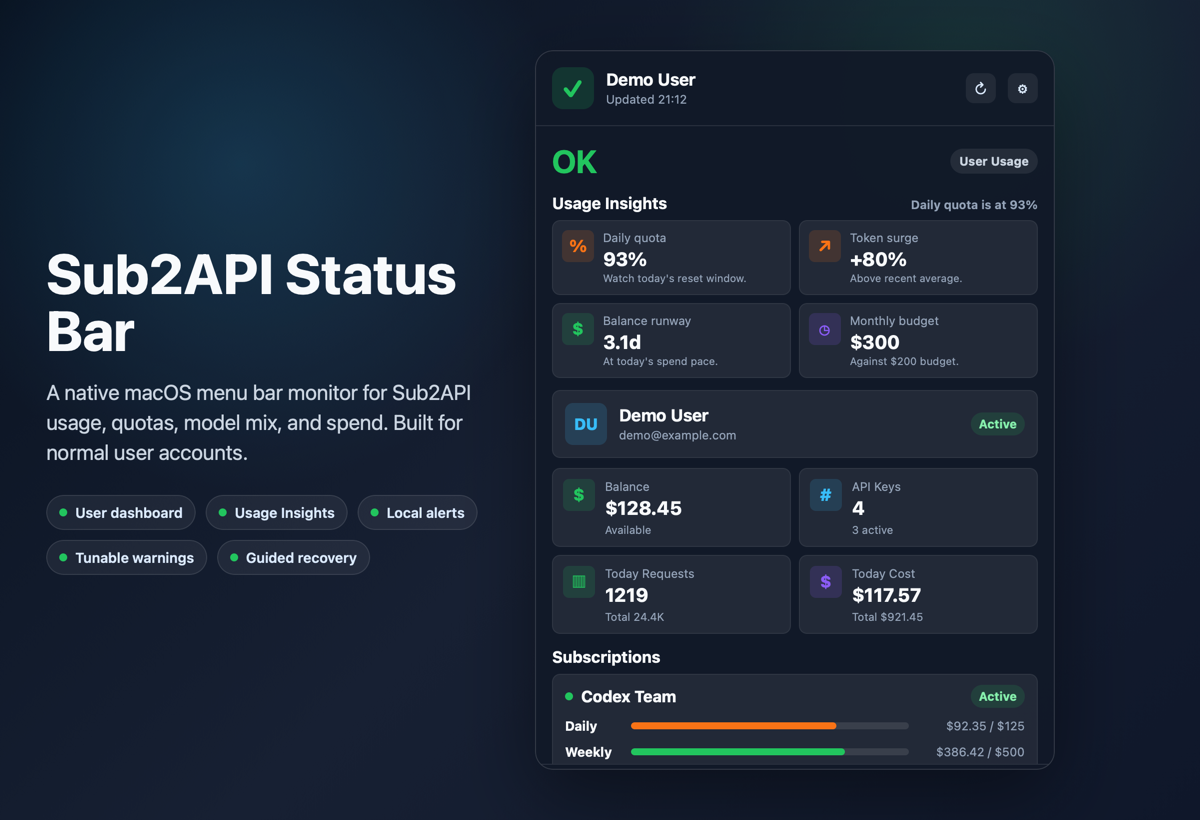
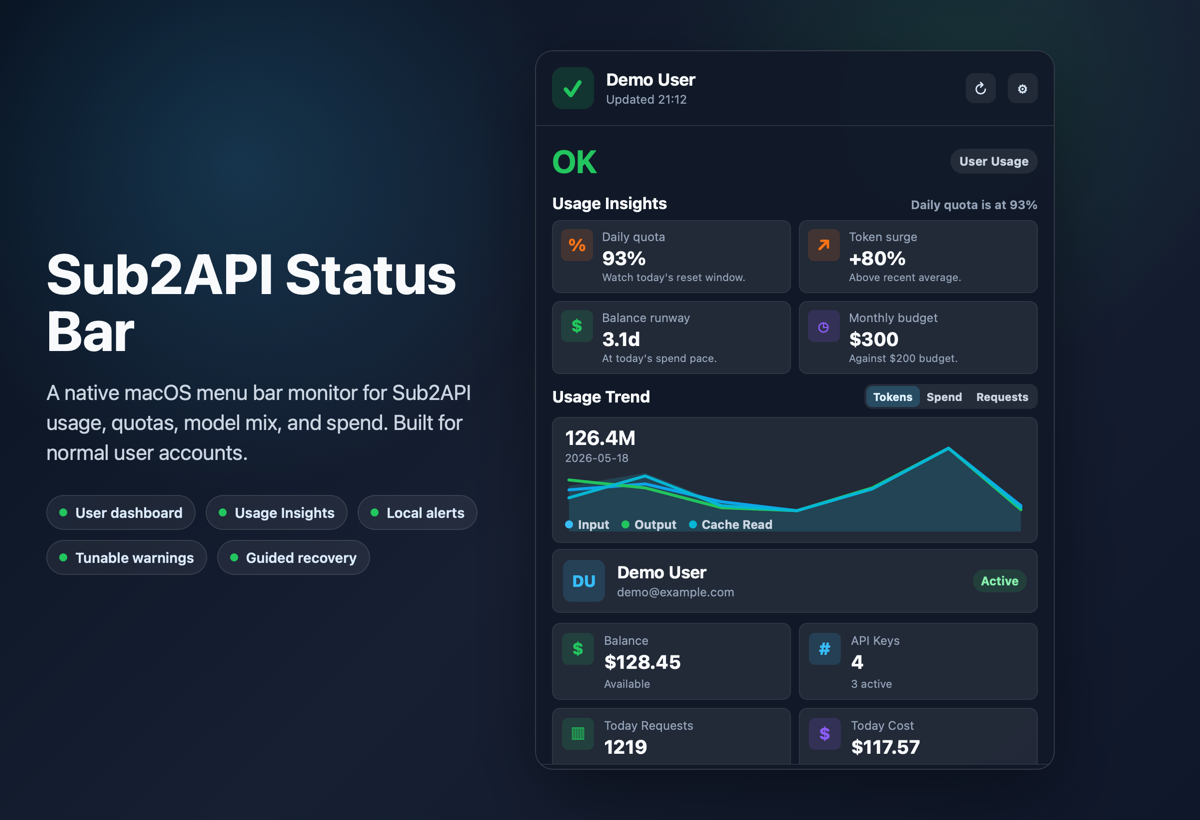
Frontload usage trend surface

Changed region(s): [[0.4625, 0.2744, 0.8633, 0.9451], [0.6783, 0.2744, 0.8633, 0.5183], [0.8017, 0.7012, 0.8633, 0.7317]]

diff --git a/docs/assets/product-preview.html b/docs/assets/product-preview.html
@@ -198,12 +198,12 @@
       display: flex;
       align-items: center;
       gap: 12px;
-      padding: 12px;
+      padding: 10px;
       margin-bottom: 10px;
     }
 
     .insights {
-      margin-bottom: 12px;
+      margin-bottom: 10px;
     }
 
     .insights-head {
@@ -231,10 +231,10 @@
     }
 
     .insight-card {
-      min-height: 72px;
+      min-height: 64px;
       display: flex;
       gap: 9px;
-      padding: 9px;
+      padding: 8px;
     }
 
     .insight-copy {
@@ -273,14 +273,14 @@
       display: grid;
       grid-template-columns: 1fr 1fr;
       gap: 8px;
-      margin-bottom: 14px;
+      margin-bottom: 10px;
     }
 
     .card {
       display: flex;
       gap: 10px;
-      padding: 10px;
-      min-height: 66px;
+      padding: 9px;
+      min-height: 58px;
     }
 
     .glyph {
@@ -346,8 +346,8 @@
     }
 
     .section {
-      padding: 10px 12px;
-      margin-bottom: 10px;
+      padding: 9px 12px;
+      margin-bottom: 8px;
     }
 
     .trend-head {
@@ -400,7 +400,7 @@
     }
 
     .quota-row {
-      margin-top: 10px;
+      margin-top: 8px;
     }
 
     .quota-row span:first-child {
@@ -465,7 +465,7 @@
     }
 
     .trend {
-      height: 138px;
+      height: 126px;
       position: relative;
       overflow: hidden;
       border-radius: 8px;
@@ -587,6 +587,27 @@
           </div>
         </div>
 
+        <div class="trend-head">
+          <h2 class="section-title">Usage Trend</h2>
+          <div class="segmented"><span class="active">Tokens</span><span>Spend</span><span>Requests</span></div>
+        </div>
+        <div class="trend">
+          <div class="trend-summary">
+            <div><strong>126.4M</strong><span>2026-05-18</span></div>
+          </div>
+          <svg viewBox="0 0 488 104" role="img" aria-label="Token trend preview">
+            <path d="M16 58 L93 45 L170 75 L246 83 L322 60 L399 18 L472 80 L472 104 L16 104 Z" fill="rgba(34, 211, 238, 0.16)"></path>
+            <path d="M16 62 L93 56 L170 74 L246 83 L322 61 L399 20 L472 78" fill="none" stroke="#0ea5e9" stroke-width="3" stroke-linecap="round" stroke-linejoin="round"></path>
+            <path d="M16 52 L93 60 L170 80 L246 83 L322 60 L399 20 L472 82" fill="none" stroke="#22c55e" stroke-width="3" stroke-linecap="round" stroke-linejoin="round"></path>
+            <path d="M16 70 L93 48 L170 78 L246 83 L322 61 L399 20 L472 80" fill="none" stroke="#06b6d4" stroke-width="3" stroke-linecap="round" stroke-linejoin="round"></path>
+          </svg>
+          <div class="trend-legend">
+            <span><i class="legend-dot"></i>Input</span>
+            <span><i class="legend-dot" style="background: var(--green)"></i>Output</span>
+            <span><i class="legend-dot" style="background: #06b6d4"></i>Cache Read</span>
+          </div>
+        </div>
+
         <div class="account">
           <div class="avatar">DU</div>
           <div>
@@ -628,26 +649,6 @@
           <div class="quota-row"><span>Monthly</span><div class="bar"><div class="fill" style="width:31%"></div></div><span class="amount">$612.34 / $2K</span></div>
         </div>
 
-        <div class="trend-head">
-          <h2 class="section-title">Usage Trend</h2>
-          <div class="segmented"><span class="active">Tokens</span><span>Spend</span><span>Requests</span></div>
-        </div>
-        <div class="trend">
-          <div class="trend-summary">
-            <div><strong>126.4M</strong><span>2026-05-18</span></div>
-          </div>
-          <svg viewBox="0 0 488 104" role="img" aria-label="Token trend preview">
-            <path d="M16 58 L93 45 L170 75 L246 83 L322 60 L399 18 L472 80 L472 104 L16 104 Z" fill="rgba(34, 211, 238, 0.16)"></path>
-            <path d="M16 62 L93 56 L170 74 L246 83 L322 61 L399 20 L472 78" fill="none" stroke="#0ea5e9" stroke-width="3" stroke-linecap="round" stroke-linejoin="round"></path>
-            <path d="M16 52 L93 60 L170 80 L246 83 L322 60 L399 20 L472 82" fill="none" stroke="#22c55e" stroke-width="3" stroke-linecap="round" stroke-linejoin="round"></path>
-            <path d="M16 70 L93 48 L170 78 L246 83 L322 61 L399 20 L472 80" fill="none" stroke="#06b6d4" stroke-width="3" stroke-linecap="round" stroke-linejoin="round"></path>
-          </svg>
-          <div class="trend-legend">
-            <span><i class="legend-dot"></i>Input</span>
-            <span><i class="legend-dot" style="background: var(--green)"></i>Output</span>
-            <span><i class="legend-dot" style="background: #06b6d4"></i>Cache Read</span>
-          </div>
-        </div>
       </div>
 
       <div class="footer">

diff --git a/Sources/Sub2APIStatusBar/MonitorPanel.swift b/Sources/Sub2APIStatusBar/MonitorPanel.swift
@@ -18,6 +18,12 @@ struct MonitorPanel: View {
                         VStack(alignment: .leading, spacing: 14) {
                             statusSection
 
+                            if model.snapshot.connected {
+                                SectionBlock(title: "Usage Trend") {
+                                    UsageTrendSection(state: UsageTrendDisplayState.make(points: model.snapshot.trend))
+                                }
+                            }
+
                             if let updateInfo = model.updateInfo, updateInfo.isUpdateAvailable {
                                 UpdateAvailableBanner(info: updateInfo) {
                                     model.openLatestRelease()
@@ -28,12 +34,6 @@ struct MonitorPanel: View {
 
                             if let message = model.snapshot.message, !message.isEmpty {
                                 MessageRow(message: message)
-                            }
-
-                            if model.snapshot.connected {
-                                SectionBlock(title: "Usage Trend") {
-                                    UsageTrendSection(state: UsageTrendDisplayState.make(points: model.snapshot.trend))
-                                }
                             }
 
                             if let suggestion = model.snapshotRecoverySuggestion {